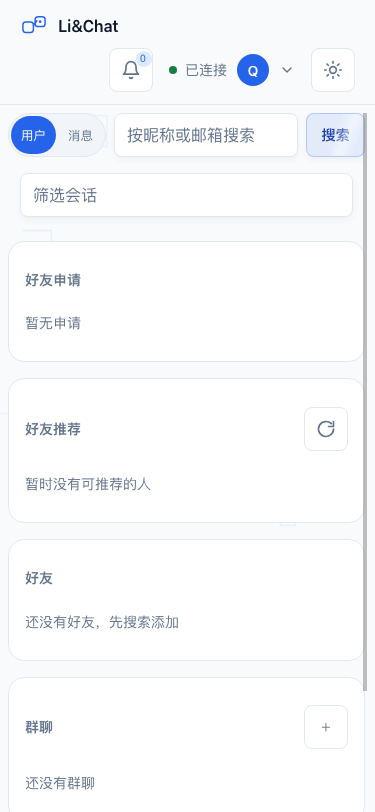
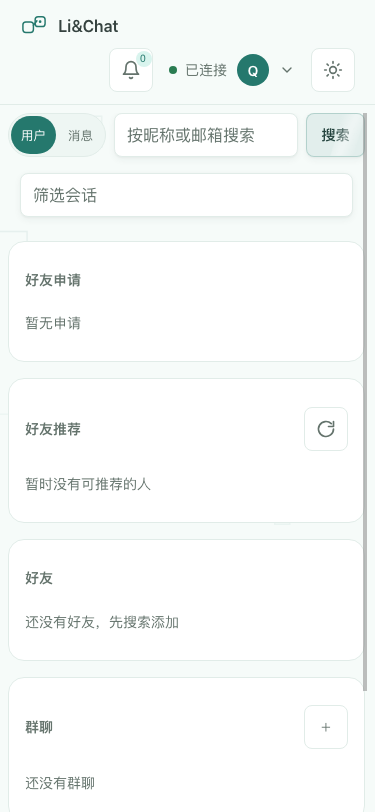
docs: 配色采纳补遗规格、BRAND/MASTER 槽位回写与预览基线重拍

diff --git a/design-system/chat/MASTER.md b/design-system/chat/MASTER.md
@@ -1,18 +1,25 @@
 # Li&Chat 设计系统实现速览（MASTER）
 
-> 状态：已回写（2026-08-16 首次实例化；2026-08-17 同步模板 V1.2） ｜ 代码事实：static/style.css、static/brand.js
+> 状态：已回写（2026-08-16 首次实例化；2026-08-17 同步模板 V1.2 并全量采纳海玻璃配色） ｜ 代码事实：static/style.css、static/brand.js
 
 ## 令牌快照
 
-浅色（`:root`）：bg `#F8FAFC` / surface `#FFFFFF` / surface-2 `#F1F5F9` / fg `#0F172A` / muted `#64748B` / border `#E2E8F0`；primary `#2563EB` hover `#1D4ED8` soft `#DBEAFE` fg `#FFFFFF`；success `#15803D` / warning `#B45309` / destructive `#DC2626` 及 soft；ring `#2563EB`。
+浅色（`:root`）：bg `#F6FBF9` / surface `#FFFFFF` / surface-2 `#EEF6F3` / fg `#35423F` / muted `#64736C` / border `#E1ECE8`；primary `#25786D` hover `#1F6359` soft `#D9F4EE` fg `#FFFFFF`；secondary `#2F678F` / soft `#DFF1FA`；success `#2A7C52` / warning `#9A5C05` / destructive `#C43737` 及 soft；ring `#25786D`。
 
-深色（`.dark`）：bg `#0B1220` / surface `#111A2C` / surface-2 `#1B2740` / fg `#E2E8F0` / muted `#94A3B8` / border `#263449`；primary `#60A5FA` hover `#93C5FD` soft `rgba(96,165,250,0.14)` fg `#172554`；success `#4ADE80` / warning `#FBBF24` / destructive `#F87171`；ring `#60A5FA`。
+深色（`.dark`，D1 雾灰）：bg `#3A3F45` / surface `#434950` / surface-2 `#4B5259` / fg `#F0F2F4` / muted `#B8C0C7` / border `#545C64`；primary `#7FD4C6` hover `#A5E4D9` soft `rgba(127,212,198,0.16)` fg `#17332E`；secondary `#A8D4F0` / soft `rgba(168,212,240,0.16)`；success `#86D6AC` / warning `#EAD48E` / destructive `#E8A49A`；ring `#7FD4C6`。
 
-阴影 `--shadow-sm/md/lg` 三档弥散（透明度总和 <0.1）；缓动 `--ease-out` / `--ease-spring`；时长 `--motion-fast/base/slow = 150/250/350ms`。
+阴影 `--shadow-sm/md/lg` 三档水绿 tint 弥散（透明度总和 <0.1）；缓动 `--ease-out` / `--ease-spring`；时长 `--motion-fast/base/slow = 150/250/350ms`。
 
-按钮着色（V1.2）：`--chat-btn-primary-bg/-bg-hover/-border`（浅 `rgba(37,99,235,.10/.17/.26)`、
-深 `rgba(96,165,250,.13/.21/.30)`）、`--chat-brand-fg`（浅 `#1E40AF`、深 `#DBEAFE`）、
+强调色板（V1.2）：ice/aqua/lilac/sage/mint/sand 六色相 strong+soft 明暗两套令牌已落地，
+暂未接装饰位（合计 ≤15% 可视面积铁律）。
+
+按钮着色（V1.2）：`--chat-btn-primary-bg/-bg-hover/-border`（浅 `rgba(47,127,116,.10/.17/.26)`、
+深 `rgba(127,212,198,.13/.21/.30)`）、`--chat-brand-fg`（浅 `#24433E`、深 `#D7EFEA`）、
 `--chat-btn-sweep`（扫光亮度，浅 `.42` / 深 `.18`）。
+
+深色软底（模板附录 E）：`--chat-*-soft-solid/-soft-fg` 实色粉彩底 + 深字（primary
+`#D9F4EE`/`#17332E`、success `#E3F6E9`/`#14532D`、warning `#FDF3D8`/`#78350F`、
+destructive `#FDEEEE`/`#7F1D1D`）；带文字的软底组件经 fallback 引用，图标/图形仍可用 rgba 软底。
 
 ## 组件清单
 
@@ -67,11 +74,13 @@ ambient.js 暴露 `LiChatAmbient.setDensity(n)`；浓度：登录 10、登录后
 
 ## 验收状态
 
-RGB 调校审计（2026-08-17，模板 V1.2 附录 E 方法）：明暗两套令牌前景/背景对全部 ≥4.5:1
-（最低 `muted` on bg = 4.548），无粉色系、无大面积重色；按钮半透明底文字对比浅 7.28 /
-深 12.62。按钮状态纪律审计：现有异步动作的 pending 均为单按钮/消息气泡 spinner，无
-成对按钮双转圈。每个新增 `animation` 均已定义对应 `@keyframes`（`chat-btn-sweep`、
-`chat-halo-breathe`），reduced-motion 下全局降为单帧。
+RGB 调校审计（2026-08-17，模板 V1.2 附录 E 方法）：模板原值四处不达 4.5，已同色相加深
+落地（muted `#64736C`、success `#2A7C52`、warning `#9A5C05`、destructive `#CF3D3D`→
+`#C43737`），调校后明暗两套文本/背景对全部 ≥4.5:1；主色 `#25786D` 保留原值（on soft
+4.547）；深色软底带文字一律实色粉彩 + 深字（8–12:1），消息新到闪动改用 `primary-hover`
+保证明暗两套可读。按钮状态纪律审计：现有异步动作的 pending 均为单按钮/消息气泡
+spinner，无成对按钮双转圈。每个新增 `animation` 均已定义对应 `@keyframes`
+（`chat-btn-sweep`、`chat-halo-breathe`），reduced-motion 下全局降为单帧。
 
 布局回归（2026-08-16，微信式布局）：桌面 1440×900 与移动 390×844 经无头浏览器程序化验收——
 页面 `scrollY=0`、`body overflow:hidden`、无横向溢出、聊天框内部滚动（可见高度 < 内容高度）、
@@ -90,4 +99,8 @@ RGB 调校审计（2026-08-17，模板 V1.2 附录 E 方法）：明暗两套令
 移动端硬锁与输入框复验（2026-08-16）：`body` 固定定位 + `touch-action:none` 后强推滚动仍
 为 0；输入框单行 44px → 三行 86px 自动增高（桌面 36 → 74px），发送/取消后复位。
 
-Pre-Delivery Checklist 全部通过（2026-08-16）：无 emoji 图标、可点击元素 cursor-pointer、hover 150–300ms、正文对比度 ≥4.5:1、focus-visible 2px 主色描边、reduced-motion 单帧、375/1440 无横向滚动、令牌与文案无硬编码、明暗切换无闪烁（首帧内联脚本 + 像素抽样验证：浅 `#F8FAFC` / 深 `#0B1220`）。视觉基线见 [preview/](./preview/)。
+Pre-Delivery Checklist 全部通过（2026-08-16 信使蓝版；2026-08-17 海玻璃配色全量换肤后
+重验）：无 emoji 图标、可点击元素 cursor-pointer、hover 150–300ms、正文对比度 ≥4.5:1、
+focus-visible 2px 主色描边、reduced-motion 单帧、375/1440 无横向滚动、令牌与文案无硬
+编码、明暗切换无闪烁（首帧内联脚本 + 像素抽样验证：浅 `#F6FBF9` / 深 `#3A3F45`）。
+视觉基线见 [preview/](./preview/)。

diff --git a/docs/superpowers/specs/2026-08-17-design-template-v12-palette-adoption-design.md b/docs/superpowers/specs/2026-08-17-design-template-v12-palette-adoption-design.md
@@ -1,0 +1,73 @@
+# Li-Design V1.2 配色方案全量采纳设计规格（补遗）
+
+> 日期：2026-08-17 ｜ 状态：设计中 ｜ 分支：`codex/lipass-palette-sync`
+> 前序规格：`2026-08-17-design-template-v12-ui-sync-design.md`（本次按用户指令修订其
+> 「不采用」决策：配色方案改为全量采纳）
+
+## 1. 目标
+
+用户明确要求「同时使用设计子模块的配色方案」：Li&Chat 全面切换到
+`design-system/template` V1.2 的**海玻璃全淡色系**（浅色）与 **D1 雾灰中间调**（深色），
+含 second/六强调色板、按钮着色令牌与 tint 阴影。同时复核账号身份绑定：仅 `sub` 是
+唯一可信标识，`email` 是可变属性。
+
+## 2. 取值（以 `reusable-tokens.template.css` 为令牌事实）
+
+| 组 | 浅色 | 深色 |
+| --- | --- | --- |
+| 中性 | bg `#F6FBF9` / surface `#FFF` / surface-2 `#EEF6F3` / fg `#35423F` / border `#E1ECE8` | bg `#3A3F45` / surface `#434950` / surface-2 `#4B5259` / fg `#F0F2F4` / border `#545C64` |
+| 主色 | `#25786D` / hover `#1F6359` / soft `#D9F4EE` / fg `#FFF` | `#7FD4C6` / hover `#A5E4D9` / soft `rgba(127,212,198,.16)` / fg `#17332E` |
+| secondary | `#2F678F` / soft `#DFF1FA` | `#A8D4F0` / soft `rgba(168,212,240,.16)` |
+| 语义 | 见 §3 调校值 | 见 §3 |
+| 强调色 | ice `#2F678F`/aqua `#25786D`/lilac `#51488F`/sage `#557546`/mint `#2F7C52`/sand `#876741` + soft | `#A8CBE8`/`#7FD4C6`/`#B0A8DE`/`#B0C79E`/`#9ADFAD`/`#D9C49E` + soft rgba |
+| 按钮 | bg `rgba(47,127,116,.10)` / hover `.17` / 描边 `.26` / 文字 `#24433E` | bg `rgba(127,212,198,.13)` / hover `.21` / 描边 `.30` / 文字 `#D7EFEA` |
+| ring / 阴影 | `#25786D` / 水绿 tint `rgba(24,58,51,*)` | `#7FD4C6` |
+
+科技光效层（网格/光束/光点）与流光线属于**光效风格**而非配色，继续不采用；其专属令牌
+（tech-*）不落地。品牌名/Logo/字体/氛围四模式不变。
+
+## 3. RGB 调校（模板附录 E：正文/strong-on-soft ≥ 4.5:1）
+
+模板原值直接落地时四处不达标，按同色相加深、保持雾面感（S 不变/略降）调校：
+
+| 令牌 | 模板原值 | 落地值 | 理由 |
+| --- | --- | --- | --- |
+| muted（浅） | `#71807A` | `#64736C` | 原值 on bg 3.96、on white 4.14 |
+| success（浅） | `#2F8F5F` | `#2A7C52` | 原值 on bg 3.85、on soft 3.57 |
+| warning（浅） | `#A16207` | `#9A5C05` | 原值 on soft 4.45 |
+| destructive（浅） | `#CF3D3D` | `#C43737` | 原值 on soft 4.25 |
+
+主色 `#25786D` 保留原值（on soft 4.547 压线通过，不偏离模板品牌主色）。
+
+深色软底（模板附录 E 铁律：`rgba(浅色,0.14–0.18)` 软底上同色浅字上限 ≈3.9，不可 4.5）：
+带文字的场景改用**实色粉彩底 + 深色文字**，新增深色令牌并在组件用 fallback 引用：
+
+```css
+.dark {
+  --chat-primary-soft-solid: #d9f4ee;   --chat-primary-soft-fg: #17332e;
+  --chat-success-soft-solid: #e3f6e9;   --chat-success-soft-fg: #14532d;
+  --chat-warning-soft-solid: #fdf3d8;   --chat-warning-soft-fg: #78350f;
+  --chat-destructive-soft-solid: #fdeeee; --chat-destructive-soft-fg: #7f1d1d;
+}
+/* 组件：background: var(--chat-primary-soft-solid, var(--chat-primary-soft));
+          color: var(--chat-primary-soft-fg, var(--chat-primary)); */
+```
+
+涉及组件：`.badge-success/warning/danger/primary`、`.reaction-chip-active`、
+`.group-avatar`、`.voice-recording`、`.message-failed`（+`-text`）、`.message-flash`。
+
+## 4. 身份绑定审计（sub 唯一可信，email 可变）
+
+- 事实：`users.sub` 为唯一主键；`upsert_user` 按 `sub` 查找、每次登录刷新
+  `email/email_verified/name`，邮箱无唯一约束、不参与任何鉴权查找。
+- 动作：补测试证明「同 sub 换 email 不新建用户、只刷新属性」；docs/oidc-integration.md
+  与 docs/security.md 写明绑定规则。
+
+## 5. 验收标准
+
+- [ ] `static/style.css` 令牌与上表一致；`test_frontend.py` 断言同步新主色
+- [ ] 明暗两套关键文本对比 ≥4.5（含 badge/徽章等 soft 底组合，核算脚本输出存档）
+- [ ] index.html/theme.js/ambient.js 品牌位与回退色同步
+- [ ] sub/email 绑定测试通过
+- [ ] `pytest -q` / `ruff check .` / `mypy app` 全绿
+- [ ] CDP 视觉断言（新配色明暗两套）全过，六张预览重拍

diff --git a/CHANGELOG.md b/CHANGELOG.md
@@ -20,8 +20,10 @@
   SSO）；退出登录弹窗提供「仅退出本网站 / 退出 SSO」两个选项，对齐 Li&Pass 指南 §8.1
 - 设计系统同步 Li-Design 模板 V1.2：主按钮改半透明单色着色 + 细描边 + `::after` 扫光
   （4s，disabled 关闭），认证卡与 Logo 呼吸辉光（4.5s，reduced-motion 静止）；槽位表
-  20 → 22，不采用项（科技光效层/雾灰深色/六强调色板）与理由记录于 BRAND.md；预览基线
-  六张全部重拍
+  20 → 22；预览基线六张全部重拍
+- 全量采纳 Li-Design V1.2 海玻璃配色方案：浅色全淡色（bg `#F6FBF9`、主色 `#25786D`、
+  雾面中性色）+ 深色 D1 雾灰中间调（bg `#3A3F45`、主色 `#7FD4C6`）+ secondary 与六强调
+  色板（ice/aqua/lilac/sage/mint/sand 明暗两套）+ 水绿 tint 阴影；品牌位/首帧主题同步
 
 ### 安全加固
 
@@ -29,12 +31,17 @@
   缺失/不符即拒绝登录），补齐 Li&Pass V2 接入验收清单「id_token 校验完整」
 - token 端点 403 黑名单按 RFC 6749 新格式 `error=access_denied` 映射封禁提示，不再
   误报「登录凭证已失效」
+- 账号绑定规则文档化并补回归测试：`sub`（openid 主体标识）是唯一可信标识、`email` 为
+  可变属性；本地仅按 `sub` upsert、每次登录刷新 email，「换邮箱不新建账号」
 
 ### 行为变更
 
 - ICE 限频默认最小间隔由 50ms 放宽至 10ms（仍为每对呼叫粒度的滥用防护）
 - Li&Pass 发现文档 issuer 与五个端点已收敛为 https 字面值；本端 http→https 升级逻辑
   保留为防御性兜底（当前为 no-op），`iss` 仍按发现文档原文严格校验
+- 海玻璃落地按模板附录 E 做 RGB 调校：muted/success/warning/destructive 四处同色相加深
+  至 ≥4.5:1；深色带文字的软底改用实色粉彩底 + 深字（新增 `*-soft-solid/-soft-fg` 令牌），
+  消息新到闪动改用 `primary-hover` 保证明暗两套可读
 
 ## v1.0.0 — 2026-08-16
 
